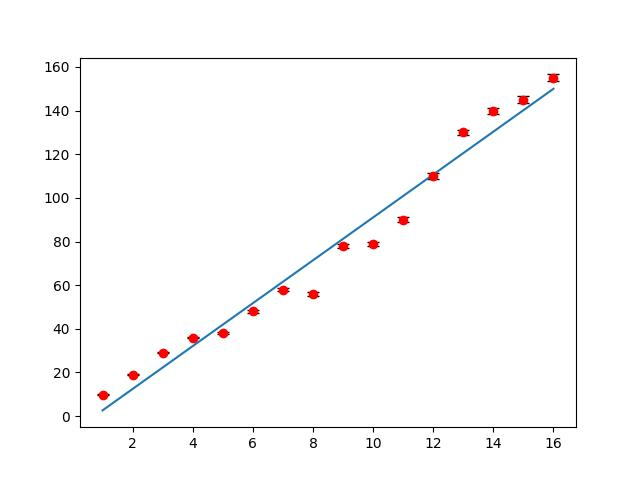
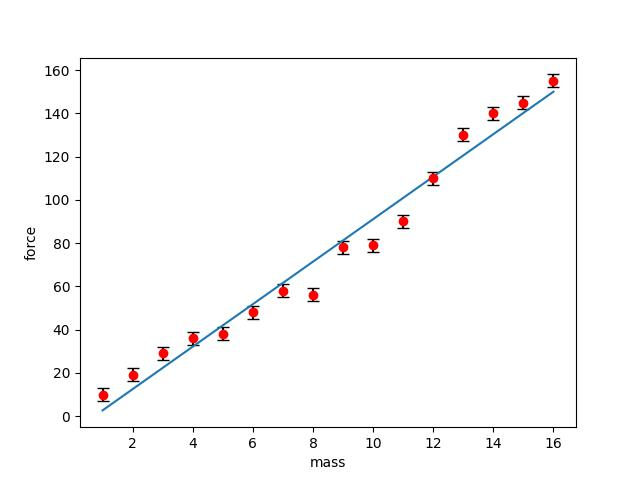
Plot update

diff --git a/python/Labo/Labo definitivo.py b/python/Labo/Labo definitivo.py
@@ -98,6 +98,7 @@ class labo:
         sB = b.get( "B error" )
         chi = np.sum( np.power( ( ( y - A * x - B ) / sy) , 2))
         self.linear_regression( x , y , sy, A , B )
+        
         if self.csv:
             string = f"""$\chi:{chi}$
                     $equazione: ({round(A,self.round)}\pm{round(sA,self.round)})x + ({round(B,self.round)}\pm{round(sB,self.round)})$"""
@@ -132,7 +133,8 @@ class labo:
         sAB = b.get( "coveriant" )
         chi = np.sum( ( ( y-A*x-B ) / sy ) **2 )
         self.weighted_linear_regression( x , y , sy, A , B )
-        
+        plt.xlabel( self.data.columns[0] )
+        plt.ylabel( self.data.columns[1] )
         # modo per selezionare dove mettere
         if self.csv:
             string = f"""$\chi:{chi}$
@@ -161,6 +163,7 @@ class labo:
 # Funzioni per i grafici di matplotlib
     def gaussian( self , vec: np.array ) :
 
+        plt.xlabel( self.data.columns[0] )
         plt.hist( vec , bins= int( np.size( vec )/stdev(vec) ) , density = True)
         span = np.linspace( min(vec), max(vec))
         plt.plot( span , gauss( span , stdev(vec) ))
@@ -169,12 +172,16 @@ class labo:
 
     def linear_regression( self , x: np.array , y: np.array, sy: float, A: float, B: float ):
 
-        plt.errorbar( x , y , sy*np.linspace( min( x ) , max( x ), np.size( x ) ) , fmt='o', capsize=4, color='red', ecolor='black')
+        plt.xlabel( self.data.columns[0] )
+        plt.ylabel( self.data.columns[1] )
+        plt.errorbar( x , y , sy*np.ones( np.size( x ) ) , fmt='o', capsize=4, color='red', ecolor='black')
         plt.plot( x , line( x ,A , B))
         
 
     def weighted_linear_regression( self , x: np.array , y: np.array, sy: np.array, A: float, B: float ):
         
+        plt.xlabel( self.data.columns[0] )
+        plt.ylabel( self.data.columns[1] )
         plt.errorbar( x , y , sy , fmt='o')
         plt.plot( x , line( x , A , B ))
         plt.show()
@@ -199,7 +206,7 @@ def line ( x: np.array , A: float , B: float ) -> np.array:
     return A*x + B
     
 if __name__ == '__main__' :
-    a=labo( 'trial.xlsx' )
+    a=labo( 'C:\Users\Utente\OneDrive\Documenti\GitHub\My_first_Repository\trial.xlsx' )
     # x = np.linspace(0,5,6)
     # y = np.array([0.1, 0.3, 0.6, 0.7,0.9, 1.3])
     # sy=0.1

diff --git a/python/Labo/Interpolazione.py b/python/Labo/Interpolazione.py
@@ -1,7 +1,7 @@
 import numpy as np
 
 #in output viene ritornata un dizionario contenente in ordine (A, sA, B, sB)
-#pane fuori
+
 class interpolazione:
     def __init__(self, x: np.array, y: np.array, sY):
         self.x = x
@@ -12,6 +12,7 @@ class interpolazione:
         else: 
             self.a = False
         pass
+    
     def Lineare( self ) -> dict:
         if np.size( self.x ) != np.size( self.y ) :
             print("Dati inseriti non validi")
